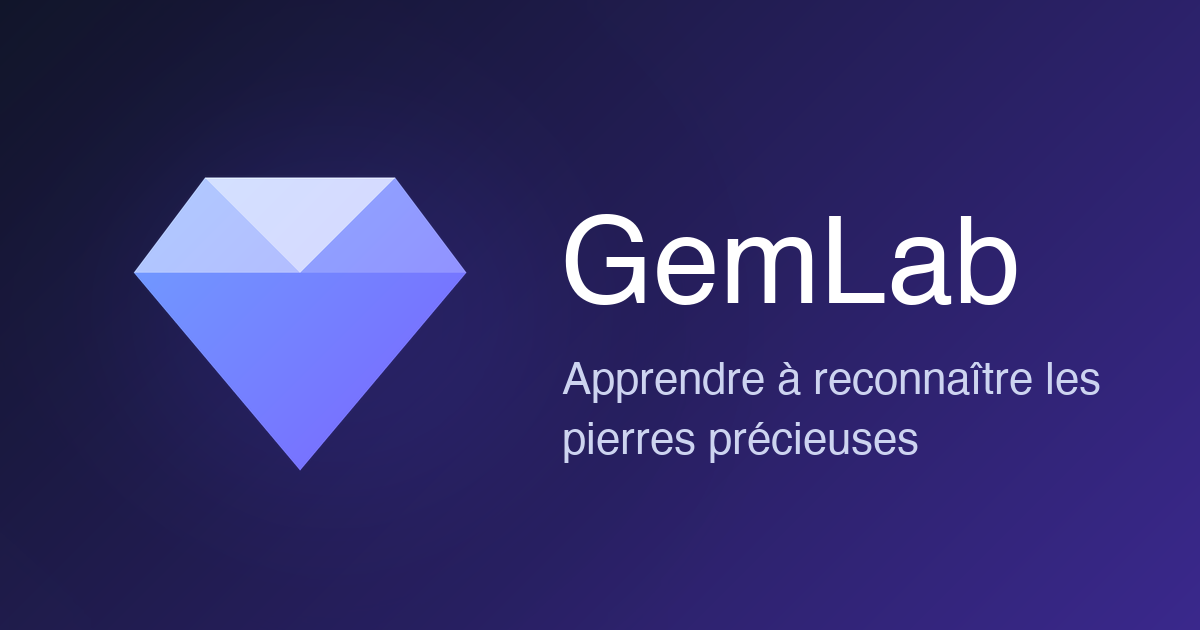
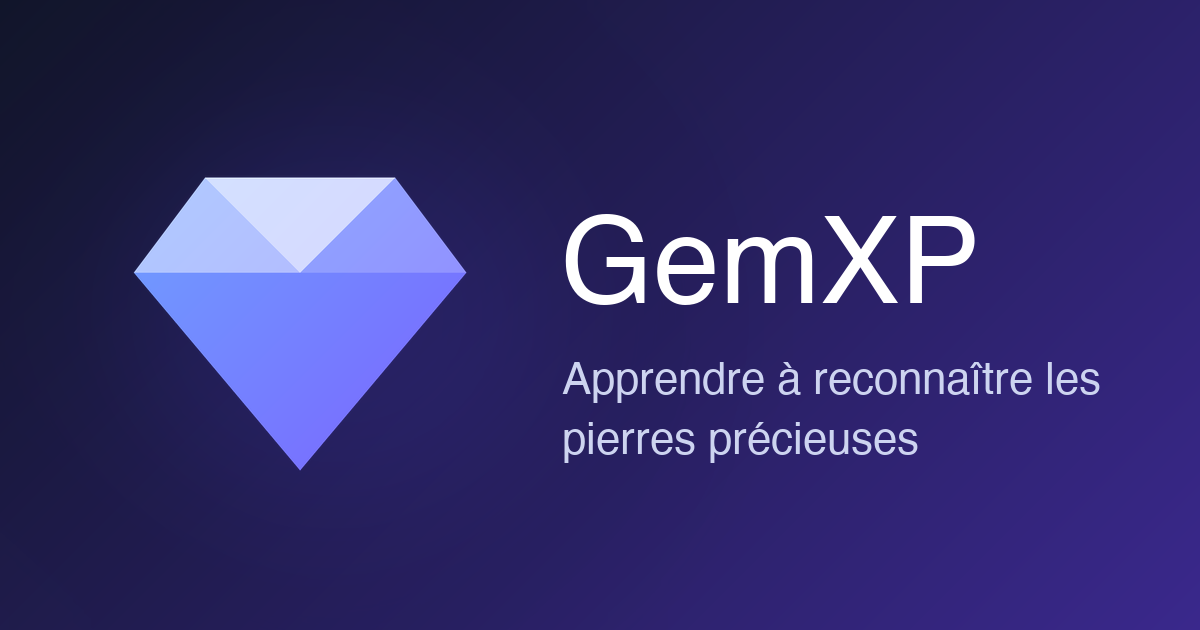
Site : le site s'appelle GemXP, nom reglable en un seul endroit (SITE_NAME), textes et courriels en {site_name}, icone et image de partage refaites, test et README

Changed region(s): [[0.6783, 0.3317, 0.8633, 0.4825]]

diff --git a/site/tools/make_icons.py b/site/tools/make_icons.py
@@ -1,7 +1,7 @@
 #!/usr/bin/env python3
 """Makes the icon and the share image of the site (needs Pillow, only for this tool: the site itself uses the standard library only).
 
-  python3 site/tools/make_icons.py "GemLab" "Apprendre à reconnaître les pierres précieuses"
+  python3 site/tools/make_icons.py "GemXP" "Apprendre à reconnaître les pierres précieuses"
 
 Writes site/static/img/favicon.svg, apple-touch-icon.png and og-image.png (1200 x 630, shown when a link is shared).
 Run it again when the name of the site changes."""
@@ -9,6 +9,11 @@ import sys
 from pathlib import Path
 
 from PIL import Image, ImageDraw, ImageFont
+
+sys.path.insert(0, str(Path(__file__).resolve().parent.parent))
+from app import config  # noqa: E402
+
+CONFIG_NAME = config.SITE_NAME
 
 OUT = Path(__file__).resolve().parent.parent / "static" / "img"
 FONTS = ["/System/Library/Fonts/Helvetica.ttc", "/System/Library/Fonts/Supplemental/Arial Bold.ttf",
@@ -101,4 +106,4 @@ def main(name, tagline):
 
 
 if __name__ == "__main__":
-    main(sys.argv[1] if len(sys.argv) > 1 else "GemLab", sys.argv[2] if len(sys.argv) > 2 else "Apprendre à reconnaître les pierres précieuses")
+    main(sys.argv[1] if len(sys.argv) > 1 else CONFIG_NAME, sys.argv[2] if len(sys.argv) > 2 else "Apprendre à reconnaître les pierres précieuses")

diff --git a/site/tests/test_site.py b/site/tests/test_site.py
@@ -762,6 +762,23 @@ class TestEnglish(SiteTestCase):
             self.assertEqual(sorted(hole.findall(fr[key])), sorted(hole.findall(en[key])), key)
         self.assertEqual(sum(1 for v in en.values() if not v.strip()), 0)
 
+    def test_the_name_of_the_site_comes_from_one_setting(self):
+        c = Client()
+        for path in ("/", "/en/", "/mentions-legales", "/confidentialite"):
+            text = c.get(path).text
+            self.assertIn(config.SITE_NAME, text, path)
+            self.assertNotIn("GemLab", text, path)
+        old = config.SITE_NAME
+        config.SITE_NAME = "NomDeTest"
+        try:
+            page = c.get("/").text
+            self.assertIn("<title>Accueil · NomDeTest", page)
+            self.assertNotIn(old, page)
+            self.register(c, "zoe")
+            self.assertTrue(self.mails()[-1]["subject"].startswith("NomDeTest"))
+        finally:
+            config.SITE_NAME = old
+
     def test_every_species_text_is_translated(self):
         """data/en/species.json must have an English text for every French text of the species data (python3 site/tools/species_strings.py lists the missing ones)."""
         import json as _json

diff --git a/site/app/config.py b/site/app/config.py
@@ -13,6 +13,8 @@ def env(name, default=None):
 ENV = env("ENV", "dev")
 DEV = ENV != "prod"
 
+# The name of the site, shown everywhere (header, titles, mails, legal pages, share image). Change it here or with GEMLAB_SITE_NAME.
+SITE_NAME = env("SITE_NAME", "GemXP")
 DEFAULT_LANG = env("LANG", "fr")
 BASE_URL = env("BASE_URL", "http://127.0.0.1:8000").rstrip("/")
 
@@ -50,7 +52,7 @@ TRUST_PROXY = env("TRUST_PROXY", "0") == "1"
 
 # Mail: "file" writes mails to var/outbox (and the /dev/courriels page); "smtp" really sends them.
 MAIL_MODE = env("MAIL_MODE", "file" if DEV else "smtp")
-MAIL_FROM = env("MAIL_FROM", "GemLab <no-reply@example.invalid>")
+MAIL_FROM = env("MAIL_FROM", SITE_NAME + " <no-reply@example.invalid>")
 SMTP_HOST = env("SMTP_HOST", "")
 SMTP_PORT = int(env("SMTP_PORT", "587"))
 SMTP_USER = env("SMTP_USER", "")

diff --git a/site/run.py b/site/run.py
@@ -33,7 +33,7 @@ def run():
     logging.basicConfig(level=logging.INFO)
     main.init()
     server = make_server(args.host, args.port, main.application, server_class=ThreadedServer, handler_class=QuietHandler)
-    print("GemLab démarré : http://{}:{}   (mode {})".format(args.host, args.port, config.ENV))
+    print("{} démarré : http://{}:{}   (mode {})".format(config.SITE_NAME, args.host, args.port, config.ENV))
     print("Arrêt : Ctrl+C. Les e-mails de test s'affichent sur /dev/courriels")
     try:
         server.serve_forever()

diff --git a/site/app/i18n.py b/site/app/i18n.py
@@ -29,6 +29,7 @@ def translate(lang, key, **kw):
         text = load("fr").get(key)
     if text is None:
         return key  # visible hint of a missing translation; tests catch these
+    text = text.replace("{site_name}", config.SITE_NAME)      # the name of the site comes from the settings, not from the texts
     if kw:
         try:
             return text.format(**kw)

diff --git a/site/README.md b/site/README.md
@@ -1,4 +1,4 @@
-# Site web GemLab (première version, en local)
+# Site web GemXP (première version, en local)
 
 Un site en français autour du simulateur de gemmologie :
 
@@ -327,3 +327,12 @@ D'où viennent les prix :
 Ce qu'il ne faut pas faire (c'est la partie risquée) : copier automatiquement les prix d'autres sites, ou réutiliser les données d'une interface de programmation sans que sa licence le permette. Mieux vaut des prix saisis, des accords écrits ou des relevés personnels.
 
 Confidentialité : un prix ajouté n'est pas lié à son auteur après la suppression du compte (l'identifiant est effacé, le prix reste, anonyme) ; la politique de confidentialité le dit. Le code est dans `app/prices.py` (calcul) et `app/routes_prices.py` (pages) ; les tests dans `TestPrices`.
+
+## 11. Le nom du site
+
+Le nom (« GemXP ») vit à un seul endroit : `SITE_NAME` dans `app/config.py`, ou la variable `GEMLAB_SITE_NAME`. Il apparaît dans l'en-tête, les titres, le pied de page, les pages légales,
+les courriels (sujet et expéditeur) et les aperçus de partage. Les textes l'écrivent `{site_name}`. Pour changer de nom :
+1. changer la valeur (ou `GEMLAB_SITE_NAME=NouveauNom` au lancement) ;
+2. refaire l'icône et l'image de partage : `python3 site/tools/make_icons.py` (elles reprennent le nom) ;
+3. mettre à jour `GEMLAB_BASE_URL` et `GEMLAB_MAIL_FROM` avec le nouveau domaine.
+Le jeu garde son nom (« GemLab Simulator »), c'est un autre produit : le texte du simulateur (`sim.window`) ne change pas.
